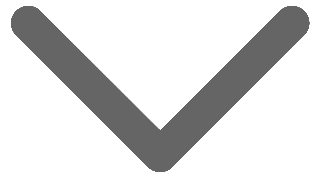
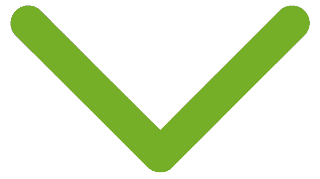
before install ngrx

Changed region(s): [[0.0312, 0.0279, 0.9688, 0.9777]]

diff --git a/uanext/src/app/components/vendor-project-min-card/vendor-project-min-card.component.ts b/uanext/src/app/components/vendor-project-min-card/vendor-project-min-card.component.ts
@@ -1,23 +1,36 @@
-import { Component, OnInit, Input, Output, EventEmitter } from '@angular/core';
+import { Component, OnInit, Input, Output, EventEmitter, OnDestroy } from '@angular/core';
 import { VendorProject } from 'src/app/models/vendorProject';
 import { StateService } from 'src/app/services/state/state.service';
 import { ChatType } from 'src/app/models/chat/chatType';
+import { Subscription } from 'rxjs';
 
 @Component({
   selector: 'app-vendor-project-min-card',
   templateUrl: './vendor-project-min-card.component.html',
   styleUrls: ['./vendor-project-min-card.component.scss']
 })
-export class VendorProjectMinCardComponent implements OnInit {
+export class VendorProjectMinCardComponent implements OnInit, OnDestroy {
   @Input() project: VendorProject;
-  @Input() isSelect: boolean;
-  @Output() selectEvent = new EventEmitter<VendorProject>();
   @Output() createChat = new EventEmitter<VendorProject>();
+  isSelect = false;
   self = 'VendorProjectMinCardComponent';
+  selectChatSubscription: Subscription;
 
   constructor(private stateService: StateService) { }
 
-  ngOnInit() {}
+  ngOnInit() {
+    this.selectChatSubscription = this.stateService.selectedProjectForChat$.subscribe(
+      (project: VendorProject) => {
+        if (project != null) {
+          if (project.id === this.project.id) {
+            this.isSelect = true;
+          } else {
+            this.isSelect = false;
+          }
+        }
+      }
+    );
+  }
 
   getAvataraUrl(project) {
     const url = project.avatara.url;
@@ -25,7 +38,7 @@ export class VendorProjectMinCardComponent implements OnInit {
   }
 
   projectWrapperClick(project: VendorProject) {
-    this.selectEvent.emit(project);
+    this.stateService.selectedProjectForChat$.next(project);
   }
 
   createPrivateChat(event) {
@@ -44,5 +57,9 @@ export class VendorProjectMinCardComponent implements OnInit {
       return false;
     }
     return true;
+  }
+
+  ngOnDestroy() {
+    this.selectChatSubscription.unsubscribe();
   }
 }

diff --git a/uanext/src/app/components/vendorComponents/vendor-chat-cards/vendor-chat-cards.component.ts b/uanext/src/app/components/vendorComponents/vendor-chat-cards/vendor-chat-cards.component.ts
@@ -21,7 +21,6 @@ export class VendorFindInvestorComponent implements OnInit {
   projects: VendorProject[] = [];
   self = 'VendorFindInvestorComponent';
   selected = 'all'; // group/single
-  selectedProject: VendorProject;
   searchName = '';
 
   constructor(
@@ -37,8 +36,6 @@ export class VendorFindInvestorComponent implements OnInit {
     this.filteredProjectsService.searchByKeyword('', 1000, 1).subscribe(
       (filteredProjects: FilteredProjects) => {
         this.projectsWithoutChat = filteredProjects.projectsList;
-        // this.selectedProject = this.projectsWithoutChat[0];
-        // this.stateService.selectedProjectForChat$.next(this.selectedProject);
         for (let i = 0; i < this.projectsWithoutChat.length; i++) {
           this.getChatByProject(this.projectsWithoutChat[i]);
         }
@@ -63,9 +60,15 @@ export class VendorFindInvestorComponent implements OnInit {
     this.selected = 'single';
   }
 
-  projectSelectHandler(project: VendorProject) {
-    this.selectedProject = project;
-    this.stateService.selectedProjectForChat$.next(this.selectedProject);
+  removeDuplicateProjects(allProjects: VendorProject[], allCurrentUserChats: Chat[]) {
+    const result: VendorProject[] = [];
+    for (let i = 0; i < allProjects.length; i++) {
+      for (let j = 0; j < allCurrentUserChats.length; j++) {
+        if (allProjects[i].id !== allCurrentUserChats[i].projectId) {
+          result.push(allProjects[i]);
+        }
+      }
+    }
   }
 
   findCardsByProjectName() {
@@ -125,8 +128,9 @@ export class VendorFindInvestorComponent implements OnInit {
       (chat: Chat) => {
         const newProject: VendorProject = {...project};
         const projectWithChat: VendorProject = this.projectWithChat(newProject, chat);
-        this.projects.unshift(projectWithChat);
-        this.projectSelectHandler(newProject);
+        // this.projects.unshift(projectWithChat);
+        // this.projectSelectHandler(newProject);
+        this.single();
       }
     );
   }

diff --git a/uanext/src/app/components/investorComponents/investor-chat-cards/investor-chat-cards.component.ts b/uanext/src/app/components/investorComponents/investor-chat-cards/investor-chat-cards.component.ts
@@ -11,56 +11,6 @@ import { StateService } from 'src/app/services/state/state.service';
   styleUrls: ['./investor-chat-cards.component.scss']
 })
 export class InvestorLastActivityComponent implements OnInit {
-  // projects: VendorProject[] = [...responseProjects.projectsList, ...responseProjects.projectsList];
-  projects: VendorProject[] = [];
-  self = 'InvestorLastActivityComponent';
-  selected = 'all'; // group/single
-  selectedProject: VendorProject;
-  searchName = '';
-
-  constructor(private filteredProjectsService: FilteredProjectsService, private stateService: StateService) {
-  }
-
   ngOnInit() {
-    this.filteredProjectsService.searchByKeyword('', 1000, 1).subscribe(
-      (filteredProjects: FilteredProjects) => {
-        this.projects = filteredProjects.projectsList;
-        this.selectedProject = this.projects[0];
-        this.stateService.selectedProjectForChat$.next(this.selectedProject);
-      }
-    );
-  }
-
-  getAvataraUrl(project) {
-    const url = project.avatara.url;
-    return 'url("' + url + '")';
-  }
-
-  all() {
-    this.selected = 'all';
-  }
-
-  group() {
-    this.selected = 'group';
-  }
-
-  single() {
-    this.selected = 'single';
-  }
-
-  projectSelectHandler(project: VendorProject) {
-    this.selectedProject = project;
-    this.stateService.selectedProjectForChat$.next(this.selectedProject);
-  }
-
-  findByNameClick() {
-    this.filteredProjectsService.searchByKeyword(this.searchName, 1000, 1).subscribe(
-      (filteredProjects: FilteredProjects) => {
-        this.projects = filteredProjects.projectsList;
-      },
-      err => {
-        console.warn(err);
-      }
-    );
   }
 }

diff --git a/uanext/src/app/components/vendorComponents/vendor-chat-cards/vendor-chat-cards.component.html b/uanext/src/app/components/vendorComponents/vendor-chat-cards/vendor-chat-cards.component.html
@@ -15,9 +15,7 @@
   <div class="projects">
     <div class="wrapper-for-border">
       <div *ngFor="let project of projects">
-        <app-vendor-project-min-card *ngIf="allowedCards(project) === true"
-          [isSelect]="selectedProject?.id === project.id" (selectEvent)="projectSelectHandler($event)"
-          [project]="project" (createChat)="createChat($event)"></app-vendor-project-min-card>
+        <app-vendor-project-min-card *ngIf="allowedCards(project) === true" [project]="project" (createChat)="createChat($event)"></app-vendor-project-min-card>
         <!-- <app-investor-card [project]="project"></app-investor-card> -->
       </div>
     </div>

diff --git a/uanext/src/app/components/index/index.component.scss b/uanext/src/app/components/index/index.component.scss
@@ -35,7 +35,7 @@
       height: 20px;
       z-index: 10;
       cursor: pointer;
-      opacity: 0.2;
+      opacity: 0.8;
     }
 
     .slide-up {
@@ -43,7 +43,7 @@
       transform: rotate(180deg);
 
       &:hover {
-        opacity: 0.3;
+        opacity: 1;
         transform: rotate(180deg) scaleX(0.9);
       }
     }
@@ -52,7 +52,7 @@
       bottom: 10px;
 
       &:hover {
-        opacity: 0.3;
+        opacity: 1;
         transform: scaleX(0.9);
       }
     }

diff --git a/uanext/src/app/components/vendorComponents/vendor-messages/vendor-messages.component.ts b/uanext/src/app/components/vendorComponents/vendor-messages/vendor-messages.component.ts
@@ -112,7 +112,6 @@ export class VendorMessagesComponent implements OnInit, AfterViewInit, OnDestroy
     this.chatService.getChatBProjectId(projectId).subscribe(
       (chat: Chat) => {
         this.chat = chat;
-        console.log(this.chat);
         this.getMessagesByChatIdSubscribe(this.chatService.getMessagesByChatId(this.chat.id), true);
       },
       err => {

diff --git a/uanext/src/app/services/chats-cache.service.ts b/uanext/src/app/services/chats-cache.service.ts
@@ -7,7 +7,7 @@ import { ChatService } from './http/chat.service';
   providedIn: 'root'
 })
 export class ChatsCacheService {
-  private cache: { [key: string]: BehaviorSubject<Chat> }[] = [];
+  private cache: { [key: string]: BehaviorSubject<Chat> } = {};
 
   constructor(private chatService: ChatService) { }
 
